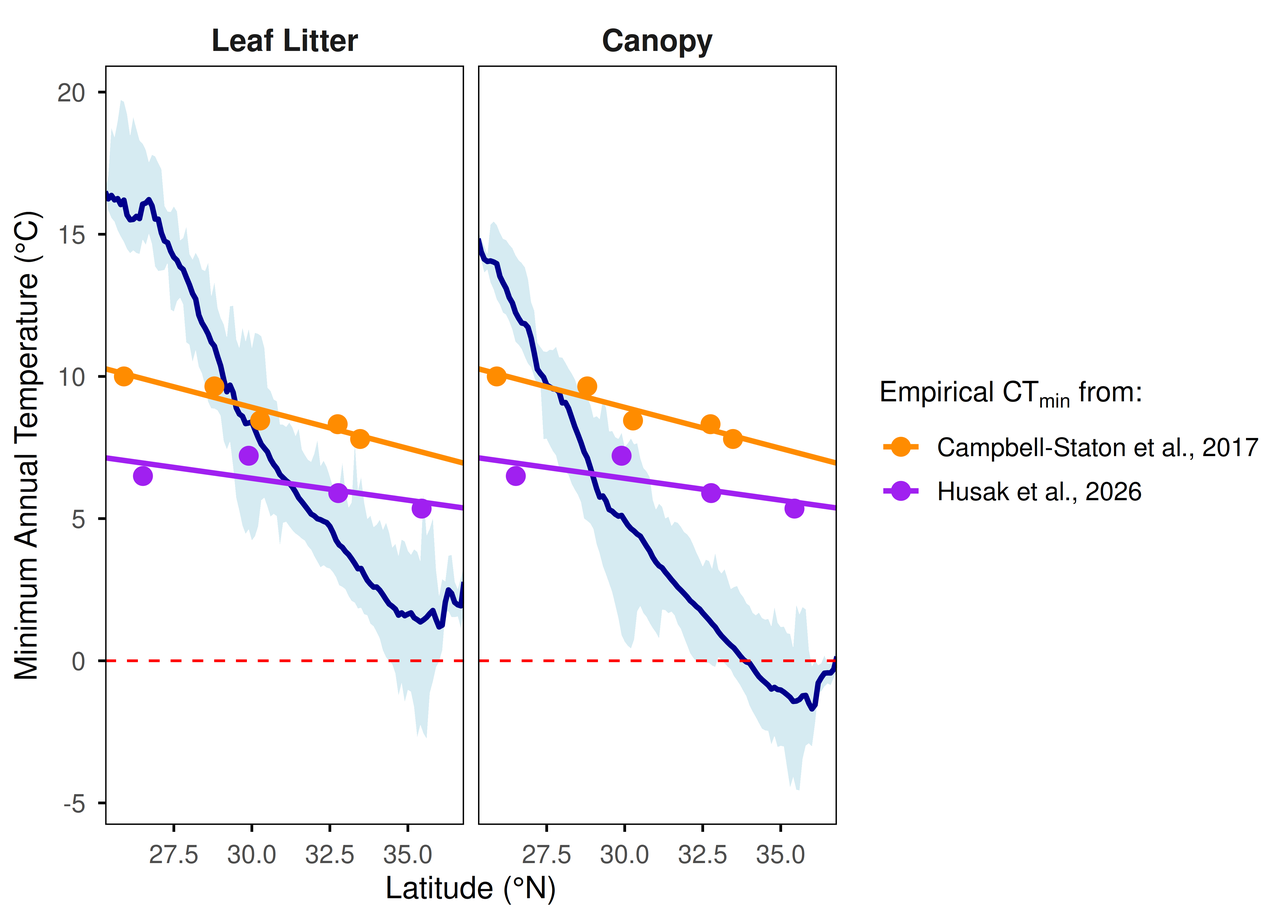
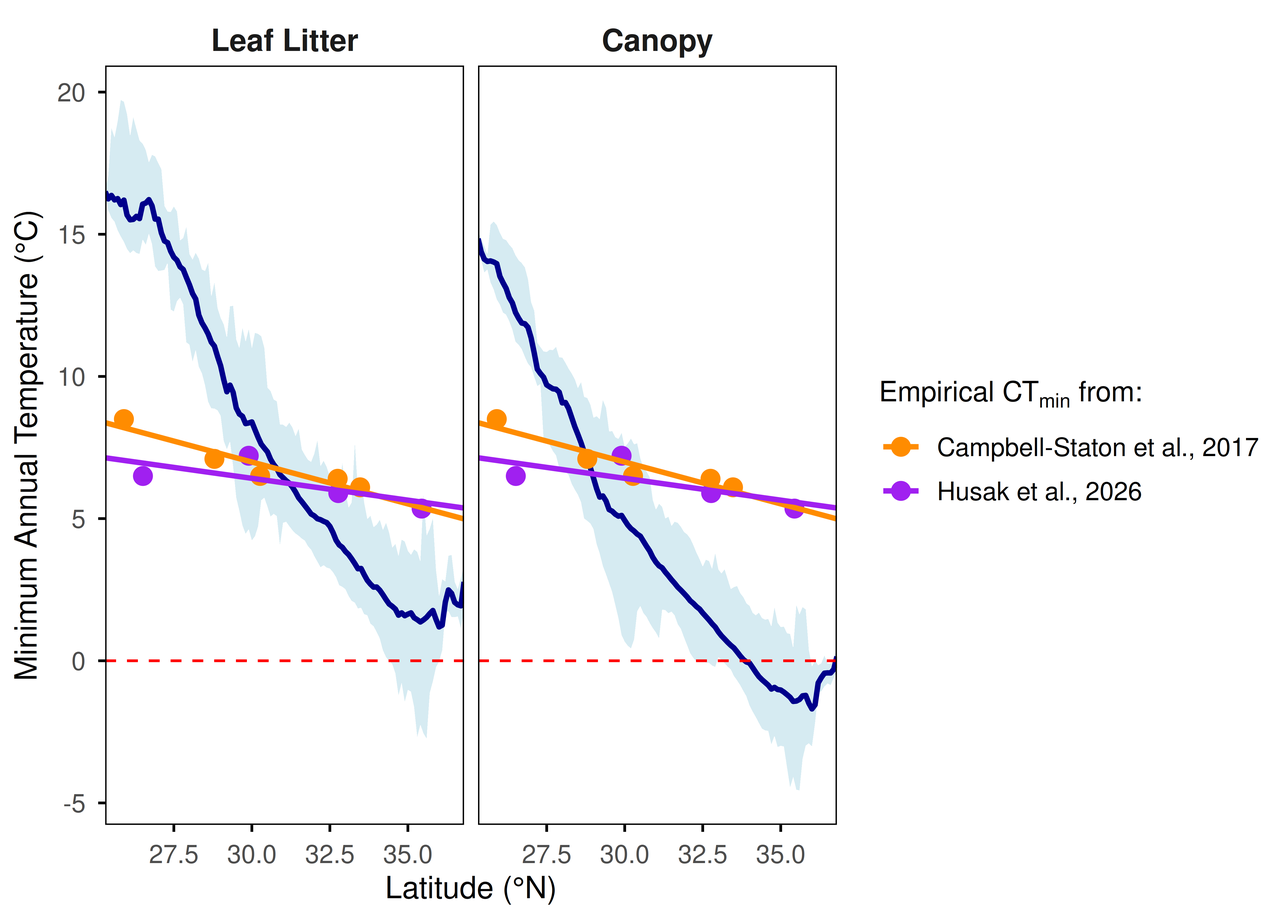
ibutton gradient analysis

diff --git a/docs/time-for-space.html b/docs/time-for-space.html
@@ -162,6 +162,7 @@ pre > code.sourceCode > span > a:first-child::before { text-decoration: underlin
   <li><a href="#overview" id="toc-overview" class="nav-link active" data-scroll-target="#overview">Overview</a></li>
   <li><a href="#data-processing" id="toc-data-processing" class="nav-link" data-scroll-target="#data-processing">Data Processing</a></li>
   <li><a href="#estimating-retreating-temperature-threshold" id="toc-estimating-retreating-temperature-threshold" class="nav-link" data-scroll-target="#estimating-retreating-temperature-threshold">Estimating Retreating Temperature Threshold</a></li>
+  <li><a href="#leaf-litter-buffering-across-latitudes" id="toc-leaf-litter-buffering-across-latitudes" class="nav-link" data-scroll-target="#leaf-litter-buffering-across-latitudes">Leaf litter buffering across latitudes</a></li>
   </ul>
 </nav>
     </div>
@@ -725,9 +726,147 @@ Number of Fisher Scoring iterations: 5</code></pre>
 </div>
 </div>
 <p>The abundance model shows an even stronger effect of branch temperature on the number of lizards observed during a survey. The table above shows the estimated branch temperature thresholds at which we expect to observe different numbers of lizards during a survey. For example, we expect to see an average of 1 lizard during a survey when the branch temperature is around 7.4 °C, and we expect to see an average of 5 lizards during a survey when the branch temperature is around 14.24 °C.</p>
-
-
 </section>
+</section>
+<section id="leaf-litter-buffering-across-latitudes" class="level2">
+<h2 class="anchored" data-anchor-id="leaf-litter-buffering-across-latitudes">Leaf litter buffering across latitudes</h2>
+<div class="cell" data-layout-align="center">
+<details class="code-fold">
+<summary>Code</summary>
+<div class="code-copy-outer-scaffold"><div class="sourceCode cell-code" id="cb20"><pre class="sourceCode r code-with-copy"><code class="sourceCode r"><span id="cb20-1"><a href="#cb20-1" aria-hidden="true" tabindex="-1"></a><span class="co"># process iButton data</span></span>
+<span id="cb20-2"><a href="#cb20-2" aria-hidden="true" tabindex="-1"></a>ibutton_processed <span class="ot">&lt;-</span> ibutton <span class="sc">|&gt;</span></span>
+<span id="cb20-3"><a href="#cb20-3" aria-hidden="true" tabindex="-1"></a>  <span class="fu">filter</span>(temp <span class="sc">&gt;</span> <span class="sc">-</span> <span class="dv">12</span>) <span class="sc">|&gt;</span></span>
+<span id="cb20-4"><a href="#cb20-4" aria-hidden="true" tabindex="-1"></a>  <span class="fu">filter</span>(doy <span class="sc">&gt;</span> <span class="dv">250</span> <span class="sc">|</span> doy <span class="sc">&lt;</span> <span class="dv">100</span>) <span class="sc">|&gt;</span></span>
+<span id="cb20-5"><a href="#cb20-5" aria-hidden="true" tabindex="-1"></a>  <span class="fu">group_by</span>(location, year, doy, id, microhabitat) <span class="sc">|&gt;</span></span>
+<span id="cb20-6"><a href="#cb20-6" aria-hidden="true" tabindex="-1"></a>  <span class="fu">summarise</span>(</span>
+<span id="cb20-7"><a href="#cb20-7" aria-hidden="true" tabindex="-1"></a>    <span class="at">min_temp =</span> <span class="fu">min</span>(temp, <span class="at">na.rm =</span> <span class="cn">TRUE</span>),</span>
+<span id="cb20-8"><a href="#cb20-8" aria-hidden="true" tabindex="-1"></a>    <span class="at">.groups =</span> <span class="st">"drop"</span></span>
+<span id="cb20-9"><a href="#cb20-9" aria-hidden="true" tabindex="-1"></a>  ) <span class="sc">|&gt;</span></span>
+<span id="cb20-10"><a href="#cb20-10" aria-hidden="true" tabindex="-1"></a>  <span class="fu">group_by</span>(location, year, id, microhabitat) <span class="sc">|&gt;</span></span>
+<span id="cb20-11"><a href="#cb20-11" aria-hidden="true" tabindex="-1"></a>  <span class="fu">summarise</span>(</span>
+<span id="cb20-12"><a href="#cb20-12" aria-hidden="true" tabindex="-1"></a>    <span class="at">mean_min_temp =</span> <span class="fu">mean</span>(min_temp, <span class="at">na.rm =</span> <span class="cn">TRUE</span>),</span>
+<span id="cb20-13"><a href="#cb20-13" aria-hidden="true" tabindex="-1"></a>    <span class="at">min_min_temp =</span> <span class="fu">min</span>(min_temp, <span class="at">na.rm =</span> <span class="cn">TRUE</span>),</span>
+<span id="cb20-14"><a href="#cb20-14" aria-hidden="true" tabindex="-1"></a>    <span class="at">.groups =</span> <span class="st">"drop"</span></span>
+<span id="cb20-15"><a href="#cb20-15" aria-hidden="true" tabindex="-1"></a>  ) <span class="sc">|&gt;</span></span>
+<span id="cb20-16"><a href="#cb20-16" aria-hidden="true" tabindex="-1"></a>  <span class="fu">mutate</span>(</span>
+<span id="cb20-17"><a href="#cb20-17" aria-hidden="true" tabindex="-1"></a>    <span class="at">lat =</span> <span class="fu">case_when</span>(</span>
+<span id="cb20-18"><a href="#cb20-18" aria-hidden="true" tabindex="-1"></a>      location <span class="sc">==</span> <span class="st">"MIA"</span> <span class="sc">~</span> <span class="fl">25.7617</span>,</span>
+<span id="cb20-19"><a href="#cb20-19" aria-hidden="true" tabindex="-1"></a>      location <span class="sc">==</span> <span class="st">"ORL"</span> <span class="sc">~</span> <span class="fl">28.5383</span>,</span>
+<span id="cb20-20"><a href="#cb20-20" aria-hidden="true" tabindex="-1"></a>      location <span class="sc">==</span> <span class="st">"GNV"</span> <span class="sc">~</span> <span class="fl">29.6516</span>,</span>
+<span id="cb20-21"><a href="#cb20-21" aria-hidden="true" tabindex="-1"></a>      location <span class="sc">==</span> <span class="st">"PSL"</span> <span class="sc">~</span> <span class="fl">27.2932</span>,</span>
+<span id="cb20-22"><a href="#cb20-22" aria-hidden="true" tabindex="-1"></a>      location <span class="sc">==</span> <span class="st">"ATL"</span> <span class="sc">~</span> <span class="fl">33.7490</span></span>
+<span id="cb20-23"><a href="#cb20-23" aria-hidden="true" tabindex="-1"></a>    )</span>
+<span id="cb20-24"><a href="#cb20-24" aria-hidden="true" tabindex="-1"></a>  )</span>
+<span id="cb20-25"><a href="#cb20-25" aria-hidden="true" tabindex="-1"></a></span>
+<span id="cb20-26"><a href="#cb20-26" aria-hidden="true" tabindex="-1"></a><span class="co"># plot mean minimum temperature across latitudes</span></span>
+<span id="cb20-27"><a href="#cb20-27" aria-hidden="true" tabindex="-1"></a><span class="fu">ggplot</span>(</span>
+<span id="cb20-28"><a href="#cb20-28" aria-hidden="true" tabindex="-1"></a>  ibutton_processed,</span>
+<span id="cb20-29"><a href="#cb20-29" aria-hidden="true" tabindex="-1"></a>  <span class="fu">aes</span>(<span class="at">x =</span> lat, <span class="at">y =</span> mean_min_temp, <span class="at">color =</span> microhabitat)</span>
+<span id="cb20-30"><a href="#cb20-30" aria-hidden="true" tabindex="-1"></a>) <span class="sc">+</span></span>
+<span id="cb20-31"><a href="#cb20-31" aria-hidden="true" tabindex="-1"></a>  <span class="fu">geom_hline</span>(<span class="at">yintercept =</span> <span class="dv">0</span>, <span class="at">color =</span> <span class="st">"red"</span>, <span class="at">linetype =</span> <span class="dv">2</span>, <span class="at">linewidth =</span> <span class="fl">0.5</span>) <span class="sc">+</span></span>
+<span id="cb20-32"><a href="#cb20-32" aria-hidden="true" tabindex="-1"></a>  <span class="fu">geom_jitter</span>(<span class="at">width =</span> <span class="fl">0.1</span>, <span class="at">height =</span> <span class="dv">0</span>, <span class="at">alpha =</span> <span class="fl">0.5</span>) <span class="sc">+</span></span>
+<span id="cb20-33"><a href="#cb20-33" aria-hidden="true" tabindex="-1"></a>  <span class="fu">stat_summary</span>() <span class="sc">+</span></span>
+<span id="cb20-34"><a href="#cb20-34" aria-hidden="true" tabindex="-1"></a>  <span class="fu">stat_summary</span>(<span class="at">geom =</span> <span class="st">"line"</span>, <span class="at">linewidth =</span> <span class="dv">1</span>) <span class="sc">+</span></span>
+<span id="cb20-35"><a href="#cb20-35" aria-hidden="true" tabindex="-1"></a>  <span class="fu">scale_x_continuous</span>(</span>
+<span id="cb20-36"><a href="#cb20-36" aria-hidden="true" tabindex="-1"></a>    <span class="at">breaks =</span> <span class="fu">sort</span>(<span class="fu">unique</span>(ibutton_processed<span class="sc">$</span>lat)),</span>
+<span id="cb20-37"><a href="#cb20-37" aria-hidden="true" tabindex="-1"></a>    <span class="at">labels =</span> <span class="fu">paste</span>(</span>
+<span id="cb20-38"><a href="#cb20-38" aria-hidden="true" tabindex="-1"></a>      <span class="fu">c</span>(<span class="st">"MIA"</span>, <span class="st">"ORL"</span>, <span class="st">"GNV"</span>, <span class="st">"PSL"</span>, <span class="st">"ATL"</span>),</span>
+<span id="cb20-39"><a href="#cb20-39" aria-hidden="true" tabindex="-1"></a>      <span class="st">" ("</span>,</span>
+<span id="cb20-40"><a href="#cb20-40" aria-hidden="true" tabindex="-1"></a>      <span class="fu">round</span>(<span class="fu">sort</span>(<span class="fu">unique</span>(ibutton_processed<span class="sc">$</span>lat)), <span class="dv">1</span>),</span>
+<span id="cb20-41"><a href="#cb20-41" aria-hidden="true" tabindex="-1"></a>      <span class="st">"°N)"</span>,</span>
+<span id="cb20-42"><a href="#cb20-42" aria-hidden="true" tabindex="-1"></a>      <span class="at">sep =</span> <span class="st">""</span></span>
+<span id="cb20-43"><a href="#cb20-43" aria-hidden="true" tabindex="-1"></a>    )</span>
+<span id="cb20-44"><a href="#cb20-44" aria-hidden="true" tabindex="-1"></a>  ) <span class="sc">+</span></span>
+<span id="cb20-45"><a href="#cb20-45" aria-hidden="true" tabindex="-1"></a>  <span class="fu">scale_color_manual</span>(</span>
+<span id="cb20-46"><a href="#cb20-46" aria-hidden="true" tabindex="-1"></a>    <span class="at">values =</span> <span class="fu">c</span>(<span class="st">"forestgreen"</span>, <span class="st">"darkorange"</span>),</span>
+<span id="cb20-47"><a href="#cb20-47" aria-hidden="true" tabindex="-1"></a>    <span class="at">labels =</span> <span class="fu">c</span>(<span class="st">"Branch"</span>, <span class="st">"Leaf Litter"</span>)</span>
+<span id="cb20-48"><a href="#cb20-48" aria-hidden="true" tabindex="-1"></a>  ) <span class="sc">+</span></span>
+<span id="cb20-49"><a href="#cb20-49" aria-hidden="true" tabindex="-1"></a>  <span class="fu">theme_minimal</span>() <span class="sc">+</span></span>
+<span id="cb20-50"><a href="#cb20-50" aria-hidden="true" tabindex="-1"></a>  <span class="fu">theme</span>(</span>
+<span id="cb20-51"><a href="#cb20-51" aria-hidden="true" tabindex="-1"></a>    <span class="at">axis.line =</span> <span class="fu">element_line</span>(),</span>
+<span id="cb20-52"><a href="#cb20-52" aria-hidden="true" tabindex="-1"></a>    <span class="at">axis.ticks =</span> <span class="fu">element_line</span>(),</span>
+<span id="cb20-53"><a href="#cb20-53" aria-hidden="true" tabindex="-1"></a>    <span class="at">panel.grid.minor =</span> <span class="fu">element_blank</span>(),</span>
+<span id="cb20-54"><a href="#cb20-54" aria-hidden="true" tabindex="-1"></a>    <span class="at">panel.grid.major =</span> <span class="fu">element_line</span>(<span class="at">color =</span> <span class="st">"gray90"</span>, <span class="at">linewidth =</span> <span class="fl">0.05</span>),</span>
+<span id="cb20-55"><a href="#cb20-55" aria-hidden="true" tabindex="-1"></a>    <span class="at">axis.text.x =</span> <span class="fu">element_text</span>(<span class="at">size =</span> <span class="dv">12</span>, <span class="at">angle =</span> <span class="dv">45</span>, <span class="at">hjust =</span> <span class="dv">1</span>),</span>
+<span id="cb20-56"><a href="#cb20-56" aria-hidden="true" tabindex="-1"></a>    <span class="at">axis.title.x =</span> <span class="fu">element_blank</span>(),</span>
+<span id="cb20-57"><a href="#cb20-57" aria-hidden="true" tabindex="-1"></a>    <span class="at">axis.title.y =</span> <span class="fu">element_text</span>(<span class="at">size =</span> <span class="dv">12</span>),</span>
+<span id="cb20-58"><a href="#cb20-58" aria-hidden="true" tabindex="-1"></a>    <span class="at">legend.position =</span> <span class="fu">c</span>(<span class="fl">0.85</span>, <span class="fl">0.85</span>),</span>
+<span id="cb20-59"><a href="#cb20-59" aria-hidden="true" tabindex="-1"></a>    <span class="at">legend.text =</span> <span class="fu">element_text</span>(<span class="at">size =</span> <span class="dv">12</span>),</span>
+<span id="cb20-60"><a href="#cb20-60" aria-hidden="true" tabindex="-1"></a>    <span class="at">legend.title =</span> <span class="fu">element_text</span>(<span class="at">size =</span> <span class="dv">12</span>)</span>
+<span id="cb20-61"><a href="#cb20-61" aria-hidden="true" tabindex="-1"></a>  ) <span class="sc">+</span></span>
+<span id="cb20-62"><a href="#cb20-62" aria-hidden="true" tabindex="-1"></a>  <span class="fu">labs</span>(</span>
+<span id="cb20-63"><a href="#cb20-63" aria-hidden="true" tabindex="-1"></a>    <span class="at">y =</span> <span class="st">"Mean Minimum Temperature (°C)"</span>,</span>
+<span id="cb20-64"><a href="#cb20-64" aria-hidden="true" tabindex="-1"></a>    <span class="at">color =</span> <span class="st">"Microhabitat"</span></span>
+<span id="cb20-65"><a href="#cb20-65" aria-hidden="true" tabindex="-1"></a>  )</span></code></pre></div><button title="Copy to Clipboard" class="code-copy-button"><i class="bi"></i></button></div>
+</details>
+<div class="cell-output cell-output-stderr">
+<pre><code>No summary function supplied, defaulting to `mean_se()`
+No summary function supplied, defaulting to `mean_se()`</code></pre>
+</div>
+<div class="cell-output-display">
+<div class="quarto-figure quarto-figure-center">
+<figure class="figure">
+<p><a href="time-for-space_files/figure-html/plot-buffering-1.png" class="lightbox" data-gallery="quarto-lightbox-gallery-6"><img src="time-for-space_files/figure-html/plot-buffering-1.png" class="img-fluid quarto-figure quarto-figure-center figure-img" width="1750"></a></p>
+</figure>
+</div>
+</div>
+<details class="code-fold">
+<summary>Code</summary>
+<div class="code-copy-outer-scaffold"><div class="sourceCode cell-code" id="cb22"><pre class="sourceCode r code-with-copy"><code class="sourceCode r"><span id="cb22-1"><a href="#cb22-1" aria-hidden="true" tabindex="-1"></a><span class="co"># plot minimum min temperature across latitudes</span></span>
+<span id="cb22-2"><a href="#cb22-2" aria-hidden="true" tabindex="-1"></a><span class="fu">ggplot</span>(</span>
+<span id="cb22-3"><a href="#cb22-3" aria-hidden="true" tabindex="-1"></a>  ibutton_processed,</span>
+<span id="cb22-4"><a href="#cb22-4" aria-hidden="true" tabindex="-1"></a>  <span class="fu">aes</span>(<span class="at">x =</span> lat, <span class="at">y =</span> min_min_temp, <span class="at">color =</span> microhabitat)</span>
+<span id="cb22-5"><a href="#cb22-5" aria-hidden="true" tabindex="-1"></a>) <span class="sc">+</span></span>
+<span id="cb22-6"><a href="#cb22-6" aria-hidden="true" tabindex="-1"></a>  <span class="fu">geom_hline</span>(<span class="at">yintercept =</span> <span class="dv">0</span>, <span class="at">color =</span> <span class="st">"red"</span>, <span class="at">linetype =</span> <span class="dv">2</span>, <span class="at">linewidth =</span> <span class="fl">0.5</span>) <span class="sc">+</span></span>
+<span id="cb22-7"><a href="#cb22-7" aria-hidden="true" tabindex="-1"></a>  <span class="fu">geom_jitter</span>(<span class="at">width =</span> <span class="fl">0.1</span>, <span class="at">height =</span> <span class="dv">0</span>, <span class="at">alpha =</span> <span class="fl">0.5</span>) <span class="sc">+</span></span>
+<span id="cb22-8"><a href="#cb22-8" aria-hidden="true" tabindex="-1"></a>  <span class="fu">stat_summary</span>() <span class="sc">+</span></span>
+<span id="cb22-9"><a href="#cb22-9" aria-hidden="true" tabindex="-1"></a>  <span class="fu">stat_summary</span>(<span class="at">geom =</span> <span class="st">"line"</span>, <span class="at">linewidth =</span> <span class="dv">1</span>) <span class="sc">+</span></span>
+<span id="cb22-10"><a href="#cb22-10" aria-hidden="true" tabindex="-1"></a>  <span class="fu">scale_x_continuous</span>(</span>
+<span id="cb22-11"><a href="#cb22-11" aria-hidden="true" tabindex="-1"></a>    <span class="at">breaks =</span> <span class="fu">sort</span>(<span class="fu">unique</span>(ibutton_processed<span class="sc">$</span>lat)),</span>
+<span id="cb22-12"><a href="#cb22-12" aria-hidden="true" tabindex="-1"></a>    <span class="at">labels =</span> <span class="fu">paste</span>(</span>
+<span id="cb22-13"><a href="#cb22-13" aria-hidden="true" tabindex="-1"></a>      <span class="fu">c</span>(<span class="st">"MIA"</span>, <span class="st">"ORL"</span>, <span class="st">"GNV"</span>, <span class="st">"PSL"</span>, <span class="st">"ATL"</span>),</span>
+<span id="cb22-14"><a href="#cb22-14" aria-hidden="true" tabindex="-1"></a>      <span class="st">" ("</span>,</span>
+<span id="cb22-15"><a href="#cb22-15" aria-hidden="true" tabindex="-1"></a>      <span class="fu">round</span>(<span class="fu">sort</span>(<span class="fu">unique</span>(ibutton_processed<span class="sc">$</span>lat)), <span class="dv">1</span>),</span>
+<span id="cb22-16"><a href="#cb22-16" aria-hidden="true" tabindex="-1"></a>      <span class="st">"°N)"</span>,</span>
+<span id="cb22-17"><a href="#cb22-17" aria-hidden="true" tabindex="-1"></a>      <span class="at">sep =</span> <span class="st">""</span></span>
+<span id="cb22-18"><a href="#cb22-18" aria-hidden="true" tabindex="-1"></a>    )</span>
+<span id="cb22-19"><a href="#cb22-19" aria-hidden="true" tabindex="-1"></a>  ) <span class="sc">+</span></span>
+<span id="cb22-20"><a href="#cb22-20" aria-hidden="true" tabindex="-1"></a>  <span class="fu">scale_color_manual</span>(</span>
+<span id="cb22-21"><a href="#cb22-21" aria-hidden="true" tabindex="-1"></a>    <span class="at">values =</span> <span class="fu">c</span>(<span class="st">"forestgreen"</span>, <span class="st">"darkorange"</span>),</span>
+<span id="cb22-22"><a href="#cb22-22" aria-hidden="true" tabindex="-1"></a>    <span class="at">labels =</span> <span class="fu">c</span>(<span class="st">"Branch"</span>, <span class="st">"Leaf Litter"</span>)</span>
+<span id="cb22-23"><a href="#cb22-23" aria-hidden="true" tabindex="-1"></a>  ) <span class="sc">+</span></span>
+<span id="cb22-24"><a href="#cb22-24" aria-hidden="true" tabindex="-1"></a>  <span class="fu">theme_minimal</span>() <span class="sc">+</span></span>
+<span id="cb22-25"><a href="#cb22-25" aria-hidden="true" tabindex="-1"></a>  <span class="fu">theme</span>(</span>
+<span id="cb22-26"><a href="#cb22-26" aria-hidden="true" tabindex="-1"></a>    <span class="at">axis.line =</span> <span class="fu">element_line</span>(),</span>
+<span id="cb22-27"><a href="#cb22-27" aria-hidden="true" tabindex="-1"></a>    <span class="at">axis.ticks =</span> <span class="fu">element_line</span>(),</span>
+<span id="cb22-28"><a href="#cb22-28" aria-hidden="true" tabindex="-1"></a>    <span class="at">panel.grid.minor =</span> <span class="fu">element_blank</span>(),</span>
+<span id="cb22-29"><a href="#cb22-29" aria-hidden="true" tabindex="-1"></a>    <span class="at">panel.grid.major =</span> <span class="fu">element_line</span>(<span class="at">color =</span> <span class="st">"gray90"</span>, <span class="at">linewidth =</span> <span class="fl">0.05</span>),</span>
+<span id="cb22-30"><a href="#cb22-30" aria-hidden="true" tabindex="-1"></a>    <span class="at">axis.text.x =</span> <span class="fu">element_text</span>(<span class="at">size =</span> <span class="dv">12</span>, <span class="at">angle =</span> <span class="dv">45</span>, <span class="at">hjust =</span> <span class="dv">1</span>),</span>
+<span id="cb22-31"><a href="#cb22-31" aria-hidden="true" tabindex="-1"></a>    <span class="at">axis.title.x =</span> <span class="fu">element_blank</span>(),</span>
+<span id="cb22-32"><a href="#cb22-32" aria-hidden="true" tabindex="-1"></a>    <span class="at">axis.title.y =</span> <span class="fu">element_text</span>(<span class="at">size =</span> <span class="dv">12</span>),</span>
+<span id="cb22-33"><a href="#cb22-33" aria-hidden="true" tabindex="-1"></a>    <span class="at">legend.position =</span> <span class="fu">c</span>(<span class="fl">0.85</span>, <span class="fl">0.85</span>),</span>
+<span id="cb22-34"><a href="#cb22-34" aria-hidden="true" tabindex="-1"></a>    <span class="at">legend.text =</span> <span class="fu">element_text</span>(<span class="at">size =</span> <span class="dv">12</span>),</span>
+<span id="cb22-35"><a href="#cb22-35" aria-hidden="true" tabindex="-1"></a>    <span class="at">legend.title =</span> <span class="fu">element_text</span>(<span class="at">size =</span> <span class="dv">12</span>)</span>
+<span id="cb22-36"><a href="#cb22-36" aria-hidden="true" tabindex="-1"></a>  ) <span class="sc">+</span></span>
+<span id="cb22-37"><a href="#cb22-37" aria-hidden="true" tabindex="-1"></a>  <span class="fu">labs</span>(</span>
+<span id="cb22-38"><a href="#cb22-38" aria-hidden="true" tabindex="-1"></a>    <span class="at">y =</span> <span class="st">"Minimum Minimum Temperature (°C)"</span>,</span>
+<span id="cb22-39"><a href="#cb22-39" aria-hidden="true" tabindex="-1"></a>    <span class="at">color =</span> <span class="st">"Microhabitat"</span></span>
+<span id="cb22-40"><a href="#cb22-40" aria-hidden="true" tabindex="-1"></a>  )</span></code></pre></div><button title="Copy to Clipboard" class="code-copy-button"><i class="bi"></i></button></div>
+</details>
+<div class="cell-output cell-output-stderr">
+<pre><code>No summary function supplied, defaulting to `mean_se()`
+No summary function supplied, defaulting to `mean_se()`</code></pre>
+</div>
+<div class="cell-output-display">
+<div class="quarto-figure quarto-figure-center">
+<figure class="figure">
+<p><a href="time-for-space_files/figure-html/plot-buffering-2.png" class="lightbox" data-gallery="quarto-lightbox-gallery-7"><img src="time-for-space_files/figure-html/plot-buffering-2.png" class="img-fluid quarto-figure quarto-figure-center figure-img" width="1750"></a></p>
+</figure>
+</div>
+</div>
+</div>
+
+
 </section>
 
 </main> <!-- /main -->

diff --git a/docs/biophysical-modeling.html b/docs/biophysical-modeling.html
@@ -701,7 +701,7 @@ pre > code.sourceCode > span > a:first-child::before { text-decoration: underlin
 <div class="code-copy-outer-scaffold"><div class="sourceCode cell-code" id="cb8"><pre class="sourceCode r code-with-copy"><code class="sourceCode r"><span id="cb8-1"><a href="#cb8-1" aria-hidden="true" tabindex="-1"></a><span class="co"># generate CTmin data from studies</span></span>
 <span id="cb8-2"><a href="#cb8-2" aria-hidden="true" tabindex="-1"></a>ctmin_data_cs <span class="ot">&lt;-</span> <span class="fu">tibble</span>(</span>
 <span id="cb8-3"><a href="#cb8-3" aria-hidden="true" tabindex="-1"></a>  <span class="at">lat =</span> <span class="fu">c</span>(<span class="fl">25.9</span>, <span class="fl">28.8</span>, <span class="fl">30.266</span>, <span class="fl">32.75</span>, <span class="fl">33.47</span>),</span>
-<span id="cb8-4"><a href="#cb8-4" aria-hidden="true" tabindex="-1"></a>  <span class="at">ctmin =</span> <span class="fu">c</span>(<span class="dv">10</span>, <span class="fl">9.65</span>, <span class="fl">8.45</span>, <span class="fl">8.32</span>, <span class="fl">7.8</span>),</span>
+<span id="cb8-4"><a href="#cb8-4" aria-hidden="true" tabindex="-1"></a>  <span class="at">ctmin =</span> <span class="fu">c</span>(<span class="fl">8.5</span>, <span class="fl">7.1</span>, <span class="fl">6.5</span>, <span class="fl">6.4</span>, <span class="fl">6.1</span>),</span>
 <span id="cb8-5"><a href="#cb8-5" aria-hidden="true" tabindex="-1"></a>  <span class="at">study =</span> <span class="st">"Campbell-Staton et al., 2017"</span></span>
 <span id="cb8-6"><a href="#cb8-6" aria-hidden="true" tabindex="-1"></a>)</span>
 <span id="cb8-7"><a href="#cb8-7" aria-hidden="true" tabindex="-1"></a>ctmin_data_husak <span class="ot">&lt;-</span> <span class="fu">tibble</span>(</span>
@@ -850,12 +850,12 @@ pre > code.sourceCode > span > a:first-child::before { text-decoration: underlin
    <td style="text-align:right;"> 0.8737806 </td>
   </tr>
   <tr>
-   <td style="text-align:left;"> Average CTmin -  7.69 °C </td>
-   <td style="text-align:right;"> 0.9377862 </td>
+   <td style="text-align:left;"> Average CTmin -  6.62 °C </td>
+   <td style="text-align:right;"> 0.9190723 </td>
   </tr>
   <tr>
-   <td style="text-align:left;"> Maximum CTmin -  10 °C </td>
-   <td style="text-align:right;"> 0.9710332 </td>
+   <td style="text-align:left;"> Maximum CTmin -  8.5 °C </td>
+   <td style="text-align:right;"> 0.9446546 </td>
   </tr>
   <tr>
    <td style="text-align:left;"> 0°C (Freezing Threshold) </td>
@@ -928,12 +928,12 @@ pre > code.sourceCode > span > a:first-child::before { text-decoration: underlin
    <td style="text-align:right;"> 4.8 </td>
   </tr>
   <tr>
-   <td style="text-align:left;"> Average CTmin -  7.69 °C </td>
-   <td style="text-align:right;"> 9.5 </td>
+   <td style="text-align:left;"> Average CTmin -  6.62 °C </td>
+   <td style="text-align:right;"> 9.0 </td>
   </tr>
   <tr>
-   <td style="text-align:left;"> Maximum CTmin -  10 °C </td>
-   <td style="text-align:right;"> 9.9 </td>
+   <td style="text-align:left;"> Maximum CTmin -  8.5 °C </td>
+   <td style="text-align:right;"> 9.5 </td>
   </tr>
   <tr>
    <td style="text-align:left;"> Lowest CTmin -  5.35 °C </td>
@@ -1119,31 +1119,25 @@ pre > code.sourceCode > span > a:first-child::before { text-decoration: underlin
 <span id="cb12-144"><a href="#cb12-144" aria-hidden="true" tabindex="-1"></a>      <span class="at">elev =</span> eco_df<span class="sc">$</span>elevation,</span>
 <span id="cb12-145"><a href="#cb12-145" aria-hidden="true" tabindex="-1"></a>      <span class="at">veg =</span> eco_df<span class="sc">$</span>veg,</span>
 <span id="cb12-146"><a href="#cb12-146" aria-hidden="true" tabindex="-1"></a>      <span class="at">presence =</span> eco_df<span class="sc">$</span>present,</span>
-<span id="cb12-147"><a href="#cb12-147" aria-hidden="true" tabindex="-1"></a>      <span class="at">z                =</span> z_val,</span>
-<span id="cb12-148"><a href="#cb12-148" aria-hidden="true" tabindex="-1"></a>      min_temp         <span class="co"># calculate temperature profiles at different heights and depths for every point in eco_df # nolint</span></span>
-<span id="cb12-149"><a href="#cb12-149" aria-hidden="true" tabindex="-1"></a>zs_temp_profiles <span class="ot">&lt;-</span> <span class="fu">get_z_temp_profile</span>(</span>
-<span id="cb12-150"><a href="#cb12-150" aria-hidden="true" tabindex="-1"></a>  <span class="at">z_list =</span> zs,</span>
-<span id="cb12-151"><a href="#cb12-151" aria-hidden="true" tabindex="-1"></a>  <span class="at">surf_temp_profile =</span> surf_temp_prof,</span>
-<span id="cb12-152"><a href="#cb12-152" aria-hidden="true" tabindex="-1"></a>  <span class="at">air_temp_profile =</span> air_temp_prof_corrected,</span>
-<span id="cb12-153"><a href="#cb12-153" aria-hidden="true" tabindex="-1"></a>  <span class="at">damping_depth =</span> damping_depth</span>
-<span id="cb12-154"><a href="#cb12-154" aria-hidden="true" tabindex="-1"></a>)<span class="ot">=</span> <span class="fu">do.call</span>(pmin, <span class="fu">as.data.frame</span>(z_temp)),</span>
-<span id="cb12-155"><a href="#cb12-155" aria-hidden="true" tabindex="-1"></a>      <span class="at">hours_below_0C   =</span> <span class="fu">rowSums</span>(z_temp <span class="sc">&lt;</span> <span class="dv">0</span>),</span>
-<span id="cb12-156"><a href="#cb12-156" aria-hidden="true" tabindex="-1"></a>      <span class="at">hours_below_6.8C =</span> <span class="fu">rowSums</span>(z_temp <span class="sc">&lt;</span> <span class="fl">6.8</span>)</span>
-<span id="cb12-157"><a href="#cb12-157" aria-hidden="true" tabindex="-1"></a>    )</span>
-<span id="cb12-158"><a href="#cb12-158" aria-hidden="true" tabindex="-1"></a>  },</span>
-<span id="cb12-159"><a href="#cb12-159" aria-hidden="true" tabindex="-1"></a>  zs_temp_profiles, zs</span>
-<span id="cb12-160"><a href="#cb12-160" aria-hidden="true" tabindex="-1"></a>) <span class="sc">|&gt;</span></span>
-<span id="cb12-161"><a href="#cb12-161" aria-hidden="true" tabindex="-1"></a>  <span class="fu">bind_rows</span>() <span class="sc">|&gt;</span></span>
-<span id="cb12-162"><a href="#cb12-162" aria-hidden="true" tabindex="-1"></a>  <span class="fu">group_by</span>(lon, lat, elev, veg, presence, z) <span class="sc">|&gt;</span></span>
-<span id="cb12-163"><a href="#cb12-163" aria-hidden="true" tabindex="-1"></a>  <span class="fu">summarise</span>(</span>
-<span id="cb12-164"><a href="#cb12-164" aria-hidden="true" tabindex="-1"></a>    <span class="at">min_annual_temp   =</span> <span class="fu">min</span>(min_temp),</span>
-<span id="cb12-165"><a href="#cb12-165" aria-hidden="true" tabindex="-1"></a>    <span class="at">hours_below_0C    =</span> <span class="fu">sum</span>(hours_below_0C),</span>
-<span id="cb12-166"><a href="#cb12-166" aria-hidden="true" tabindex="-1"></a>    <span class="at">hours_below_ctmin =</span> <span class="fu">sum</span>(hours_below_6<span class="fl">.8</span>C),</span>
-<span id="cb12-167"><a href="#cb12-167" aria-hidden="true" tabindex="-1"></a>    <span class="at">.groups =</span> <span class="st">"drop"</span></span>
-<span id="cb12-168"><a href="#cb12-168" aria-hidden="true" tabindex="-1"></a>  )</span>
-<span id="cb12-169"><a href="#cb12-169" aria-hidden="true" tabindex="-1"></a></span>
-<span id="cb12-170"><a href="#cb12-170" aria-hidden="true" tabindex="-1"></a><span class="co"># save zs_temp_profiles</span></span>
-<span id="cb12-171"><a href="#cb12-171" aria-hidden="true" tabindex="-1"></a><span class="fu">saveRDS</span>(microclimate_temps, <span class="st">"data/microclimate_temps.rds"</span>)</span></code></pre></div><button title="Copy to Clipboard" class="code-copy-button"><i class="bi"></i></button></div>
+<span id="cb12-147"><a href="#cb12-147" aria-hidden="true" tabindex="-1"></a>      <span class="at">z  =</span> z_val,</span>
+<span id="cb12-148"><a href="#cb12-148" aria-hidden="true" tabindex="-1"></a>      <span class="at">min_temp =</span> <span class="fu">do.call</span>(pmin, <span class="fu">as.data.frame</span>(z_temp)),</span>
+<span id="cb12-149"><a href="#cb12-149" aria-hidden="true" tabindex="-1"></a>      <span class="at">hours_below_0C   =</span> <span class="fu">rowSums</span>(z_temp <span class="sc">&lt;</span> <span class="dv">0</span>),</span>
+<span id="cb12-150"><a href="#cb12-150" aria-hidden="true" tabindex="-1"></a>      <span class="at">hours_below_6.8C =</span> <span class="fu">rowSums</span>(z_temp <span class="sc">&lt;</span> <span class="fl">6.8</span>)</span>
+<span id="cb12-151"><a href="#cb12-151" aria-hidden="true" tabindex="-1"></a>    )</span>
+<span id="cb12-152"><a href="#cb12-152" aria-hidden="true" tabindex="-1"></a>  },</span>
+<span id="cb12-153"><a href="#cb12-153" aria-hidden="true" tabindex="-1"></a>  zs_temp_profiles, zs</span>
+<span id="cb12-154"><a href="#cb12-154" aria-hidden="true" tabindex="-1"></a>) <span class="sc">|&gt;</span></span>
+<span id="cb12-155"><a href="#cb12-155" aria-hidden="true" tabindex="-1"></a>  <span class="fu">bind_rows</span>() <span class="sc">|&gt;</span></span>
+<span id="cb12-156"><a href="#cb12-156" aria-hidden="true" tabindex="-1"></a>  <span class="fu">group_by</span>(lon, lat, elev, veg, presence, z) <span class="sc">|&gt;</span></span>
+<span id="cb12-157"><a href="#cb12-157" aria-hidden="true" tabindex="-1"></a>  <span class="fu">summarise</span>(</span>
+<span id="cb12-158"><a href="#cb12-158" aria-hidden="true" tabindex="-1"></a>    <span class="at">min_annual_temp   =</span> <span class="fu">min</span>(min_temp),</span>
+<span id="cb12-159"><a href="#cb12-159" aria-hidden="true" tabindex="-1"></a>    <span class="at">hours_below_0C    =</span> <span class="fu">sum</span>(hours_below_0C),</span>
+<span id="cb12-160"><a href="#cb12-160" aria-hidden="true" tabindex="-1"></a>    <span class="at">hours_below_ctmin =</span> <span class="fu">sum</span>(hours_below_6<span class="fl">.8</span>C),</span>
+<span id="cb12-161"><a href="#cb12-161" aria-hidden="true" tabindex="-1"></a>    <span class="at">.groups =</span> <span class="st">"drop"</span></span>
+<span id="cb12-162"><a href="#cb12-162" aria-hidden="true" tabindex="-1"></a>  )</span>
+<span id="cb12-163"><a href="#cb12-163" aria-hidden="true" tabindex="-1"></a></span>
+<span id="cb12-164"><a href="#cb12-164" aria-hidden="true" tabindex="-1"></a><span class="co"># save zs_temp_profiles</span></span>
+<span id="cb12-165"><a href="#cb12-165" aria-hidden="true" tabindex="-1"></a><span class="fu">saveRDS</span>(microclimate_temps, <span class="st">"data/microclimate_temps.rds"</span>)</span></code></pre></div><button title="Copy to Clipboard" class="code-copy-button"><i class="bi"></i></button></div>
 </details>
 </div>
 <div class="cell">
